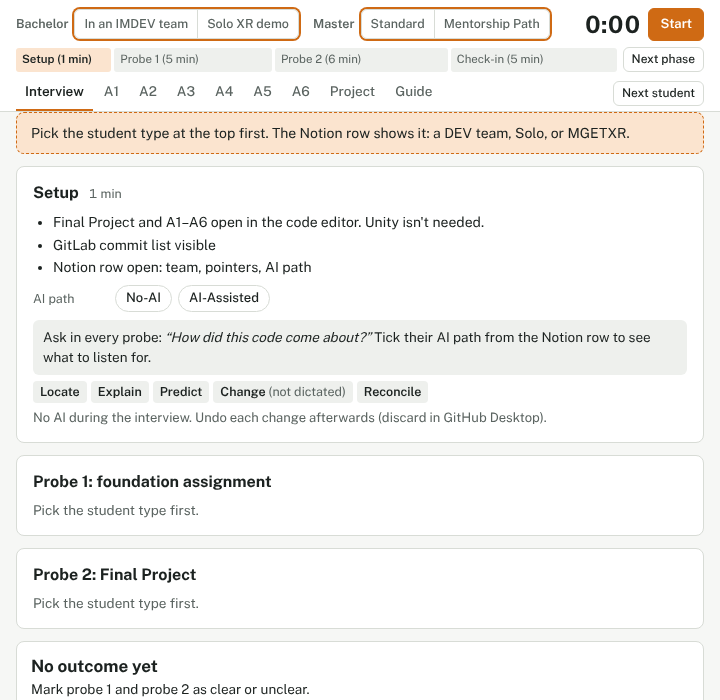
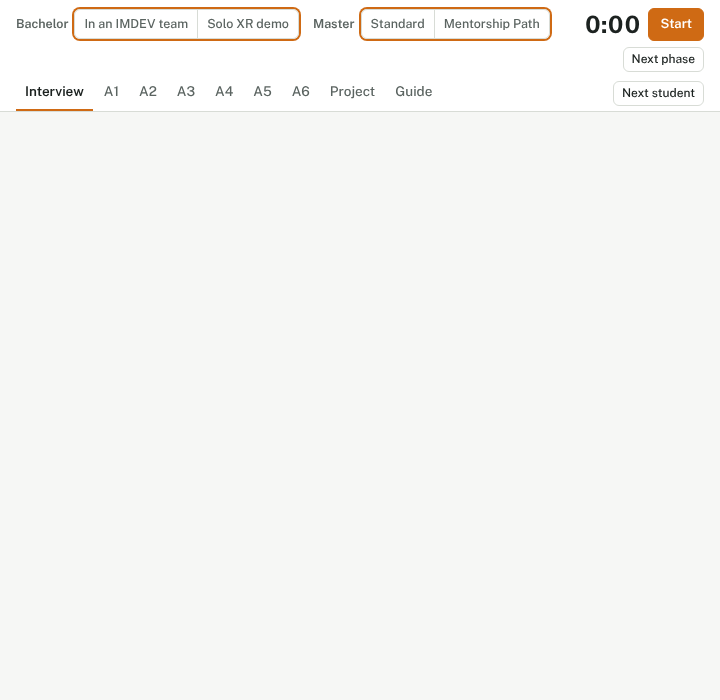
Call them checks, not probes; drop last-commit cards
Claude-Session: https://claude.ai/code/session_012pZ8E2KigwqxqxQJHujcYw

diff --git a/index.html b/index.html
@@ -108,7 +108,7 @@ main.wrap{padding-top:24px;padding-bottom:48px}
 .chip.res-doubt[aria-pressed="true"]{background:var(--doubt-t);border-color:var(--doubt)}
 input[type=text]{font:inherit;font-size:14px;color:var(--fg);background:var(--surface);border:1px solid var(--line);border-radius:6px;padding:5px 8px;width:100%;max-width:280px}
 
-/* the probe card: the one bold element */
+/* the check card: the one bold element */
 .card{position:relative;background:var(--surface);border:1px solid var(--line);border-left:5px solid var(--accent);border-radius:4px 8px 8px 4px;padding:12px 14px 12px 14px;margin:8px 0}
 .card .meta{display:flex;gap:6px;flex-wrap:wrap;align-items:center;margin-bottom:6px;font-size:12px}
 .tag{border-radius:3px;padding:1px 6px;font-weight:600;background:var(--sunk);color:var(--muted)}
@@ -211,8 +211,8 @@ const SOURCES = {own:"Own code", given:"Given in brief/template"};
 function needsThird(){ return verdict().k==="third" || !!S.probes[2].deck || !!S.probes[2].result; }
 function phasesFor(mode){
   const third = needsThird(), st = MODES[mode].status;
-  const list = [{id:"setup",n:"Setup",len:1},{id:"p1",n:"Probe 1",len:5},{id:"p2",n:"Probe 2",len:6}];
-  if(third) list.push({id:"p3",n:"Probe 3",len:st?3:4});
+  const list = [{id:"setup",n:"Setup",len:1},{id:"p1",n:"Check 1",len:5},{id:"p2",n:"Check 2",len:6}];
+  if(third) list.push({id:"p3",n:"Check 3",len:st?3:4});
   if(st) list.push({id:"checkin",n:"Check-in",len:third?2:5});
   let e = 0; list.forEach(p => { e += p.len; p.e = e; });
   return list;
@@ -225,7 +225,7 @@ function reset(keepMode){
   const mode = keepMode && S ? S.mode : (store.get("crg-mode","bt"));
   S = { mode, tab:"flow", aiPath:null, sugg:null,
         timer:{running:false, start:0, acc:0}, phase:"setup", phaseAt:0,
-        probes:[blankProbe(), blankProbe(), blankProbe()],
+        checks:[blankProbe(), blankProbe(), blankProbe()],
         advice:null, armedNext:false, modeChosen:false };
 }
 reset(false);
@@ -265,15 +265,15 @@ function verdict(){
   if(S.probes.some(p => p.ai === "no"))
     return {k:"doubt", h:"Doubt", t:"Their account doesn't fit the declared AI path. Write down what they said under Evidence in Notion. Maro follows up."};
   if(!a.result || !b.result)
-    return {k:"pending", h:"No outcome yet", t:"Mark probe 1 and probe 2 as clear or unclear."};
+    return {k:"pending", h:"No outcome yet", t:"Mark check 1 and check 2 as clear or unclear."};
   const weak = p => p.result==="unclear" || p.ai==="unsure";
   const unclear = [a,b].filter(weak).length;
-  if(unclear === 0) return {k:"pass", h:"Pass", t:"Two clear probes."};
-  if(unclear === 2) return {k:"doubt", h:"Doubt", t:"Both probes were unclear or uncertain. Write down where they got stuck under Evidence in Notion. Maro follows up."};
-  if(!c.result) return {k:"third", h:"Do a third probe", t:"One probe was unclear, or you weren't sure how the code came about. Pick a different file, ideally from another assignment."};
+  if(unclear === 0) return {k:"pass", h:"Pass", t:"Two clear checks."};
+  if(unclear === 2) return {k:"doubt", h:"Doubt", t:"Both checks were unclear or uncertain. Write down where they got stuck under Evidence in Notion. Maro follows up."};
+  if(!c.result) return {k:"third", h:"Do a third check", t:"One check was unclear, or you weren't sure how the code came about. Pick a different file, ideally from another assignment."};
   return !weak(c)
-    ? {k:"pass", h:"Pass", t:"The third probe was clear."}
-    : {k:"doubt", h:"Doubt", t:"Still unclear after the third probe. Write down where they got stuck under Evidence in Notion. Maro follows up."};
+    ? {k:"pass", h:"Pass", t:"The third check was clear."}
+    : {k:"doubt", h:"Doubt", t:"Still unclear after the third check. Write down where they got stuck under Evidence in Notion. Maro follows up."};
 }
 
 /* ---------- helpers ---------- */
@@ -356,7 +356,7 @@ function probeHTML(i){
   const p = S.probes[i], mode = MODES[S.mode];
   let title, sub, deckRow = "";
   if(i===0){
-    title = mode.p1==="TUTORIAL" ? "Probe 1: tutorial package" : "Probe 1: foundation assignment";
+    title = mode.p1==="TUTORIAL" ? "Check 1: tutorial package" : "Check 1: foundation assignment";
     sub = mode.p1==="TUTORIAL" ? "Tutorial project." : "Stay in the code editor. Ask what Play would show instead of running it.";
     if(mode.p1==="A"){
       deckRow = `<div class="row"><span class="lab">Assignment</span>${ADECKS.map(k =>
@@ -365,12 +365,12 @@ function probeHTML(i){
         <p class="hint">Suggestions favour A4–A6. If the Notion row points somewhere else, go with that.</p>`;
     }
   } else if(i===1){
-    title = S.mode==="bt"||S.mode==="bs" ? "Probe 2: Final Project" : "Probe 2: XR Development Project";
-    sub = "Work in progress. Probe what exists so far, finished or not. Code editor only.";
+    title = S.mode==="bt"||S.mode==="bs" ? "Check 2: Final Project" : "Check 2: XR Development Project";
+    sub = "Work in progress. Check what exists so far, finished or not. Code editor only.";
     if(S.mode==="bt") sub += " Include a Trace into the teammate's code it connects to.";
   } else {
-    title = "Probe 3: a different file";
-    sub = "Pick a file you haven't probed yet, ideally from another assignment.";
+    title = "Check 3: a different file";
+    sub = "Pick a file you haven't checked yet, ideally from another assignment.";
     const decks = (S.mode==="mm" ? ["TUTORIAL"] : ADECKS).concat([mode.p2]);
     deckRow = `<div class="row"><span class="lab">Deck</span>${decks.map(k =>
       `<button class="chip" data-act="pick" data-p="2" data-v="${k}" aria-pressed="${p.deck===k}">${deckLabel(k)}</button>`).join("")}</div>`;
@@ -395,7 +395,7 @@ function probeHTML(i){
       <button class="chip res-clear" data-act="ai" data-p="${i}" data-v="yes" aria-pressed="${p.ai==="yes"}">Fits their AI path</button>
       <button class="chip res-doubt" data-act="ai" data-p="${i}" data-v="no" aria-pressed="${p.ai==="no"}">Doesn't fit</button>
       <button class="chip res-unclear" data-act="ai" data-p="${i}" data-v="unsure" aria-pressed="${p.ai==="unsure"}">Not sure</button></div>
-    <div class="row"><span class="lab">Script</span><input type="text" data-in="script" data-p="${i}" value="${esc(p.script)}" placeholder="e.g. Chaser.cs" aria-label="Script probed"></div>
+    <div class="row"><span class="lab">Script</span><input type="text" data-in="script" data-p="${i}" value="${esc(p.script)}" placeholder="e.g. Chaser.cs" aria-label="Script checked"></div>
     `;
   const phase = ["p1","p2","p3"][i];
   return `<section class="step" data-phase="${phase}"><div class="step-h"><h2>${title}</h2><span class="nowtag" hidden>now</span></div>
@@ -412,7 +412,7 @@ function copyText(i){
 }
 function notesText(){
   const lines = [];
-  S.probes.forEach((p,i) => { const t = copyText(i); if(t) lines.push("P"+(i+1)+": "+t); });
+  S.probes.forEach((p,i) => { const t = copyText(i); if(t) lines.push("Check "+(i+1)+": "+t); });
   if(!lines.length) return "";
   const v = verdict();
   lines.push("Suggested: "+(v.k==="pending" ? "not complete" : v.h));
@@ -424,10 +424,10 @@ function notesHTML(){
   return `<div class="copy"><button class="btn small" data-act="copynotes">Copy for “Check notes”</button></div><pre class="notes" id="notes">${esc(t)}</pre>`;
 }
 function aiHint(){
-  const no = `<b>No-AI:</b> you should hear how they wrote it: docs, tutorials, what went wrong. Code that looks generated with no story behind it gets a third probe.`;
+  const no = `<b>No-AI:</b> you should hear how they wrote it: docs, tutorials, what went wrong. Code that looks generated with no story behind it gets a third check.`;
   const yes = `<b>AI-Assisted:</b> you should hear which parts came from AI and what they changed or fixed. Predicting and changing still count the same.`;
-  if(!S.aiPath) return `<div class="ai"><p>Ask in every probe: <i>“How did this code come about?”</i></p><p>Tick their AI path from the Notion row to see what to listen for.</p></div>`;
-  return `<div class="ai"><p>Ask in every probe: <i>“How did this code come about?”</i></p><p>${S.aiPath==="noai" ? no : yes}</p><p>If it doesn't fit their declared path, note what they said and mark Doubt.</p></div>`;
+  if(!S.aiPath) return `<div class="ai"><p>Ask in every check: <i>“How did this code come about?”</i></p><p>Tick their AI path from the Notion row to see what to listen for.</p></div>`;
+  return `<div class="ai"><p>Ask in every check: <i>“How did this code come about?”</i></p><p>${S.aiPath==="noai" ? no : yes}</p><p>If it doesn't fit their declared path, note what they said and mark Doubt.</p></div>`;
 }
 function renderFlow(){
   const mode = MODES[S.mode], v = verdict(), p3 = v.k==="third" || S.probes[2].deck || S.probes[2].result;
@@ -444,7 +444,7 @@ function renderFlow(){
       <button class="chip" data-act="aipath" data-v="noai" aria-pressed="${S.aiPath==="noai"}">No-AI</button>
       <button class="chip" data-act="aipath" data-v="ai" aria-pressed="${S.aiPath==="ai"}">AI-Assisted</button></div>
     ${aiHint()}
-    <div class="cycle" aria-label="Probe cycle">${STEPS.map((s,i)=>`<span><b>${s}</b>${["","",""," (not dictated)",""][i]}</span>`).join("")}</div>
+    <div class="cycle" aria-label="Check cycle">${STEPS.map((s,i)=>`<span><b>${s}</b>${["","",""," (not dictated)",""][i]}</span>`).join("")}</div>
     <p class="hint">No AI during the interview. Undo each change afterwards (discard in GitHub Desktop).</p>
   </section>
   ${probeHTML(0)}
@@ -478,17 +478,17 @@ function renderDeck(k){
   const target = S.probes.findIndex((p,i) => !p.card && (i<2 || verdict().k==="third"));
   const btns = c => {
     const allowed = [0,1,2].filter(i => i===2 || (i===0 ? (MODES[S.mode].p1==="A" ? k.startsWith("A") : k===MODES[S.mode].p1) : k===MODES[S.mode].p2));
-    return `<div class="card-actions">${allowed.map(i=>`<button class="btn small" data-act="use" data-p="${i}" data-v="${c.id}">Use for probe ${i+1}</button>`).join("")}</div>`;
+    return `<div class="card-actions">${allowed.map(i=>`<button class="btn small" data-act="use" data-p="${i}" data-v="${c.id}">Use for check ${i+1}</button>`).join("")}</div>`;
   };
   return `<h2 class="deck-h">${esc(d.title)}</h2><p class="deck-sub">${esc(d.files)}. Pick any card, or let the interview tab deal one.</p>
-    <div class="legend"><span><span class="tag move">Move</span> type of change</span><span><span class="tag given">Given in brief/template</span> probe understanding</span></div>
+    <div class="legend"><span><span class="tag move">Move</span> type of change</span><span><span class="tag given">Given in brief/template</span> check understanding</span></div>
     ${cards.map(c => cardHTML(k, c, {actions:btns(c)})).join("")}`;
 }
 
 /* ---------- render: guide ---------- */
 function renderGuide(){
   return `<div class="guide">
-  <h2>The probe cycle, twice</h2>
+  <h2>The check cycle, twice</h2>
   <table><thead><tr><th>Step</th><th>You say</th><th>Watch for</th></tr></thead><tbody>
   <tr><td>Locate</td><td>Name a behaviour, not a file: “Show me where…”</td><td>Goes straight there, or searches file names</td></tr>
   <tr><td>Explain</td><td>“Walk me through this in your own words.” One minute.</td><td>Talks about the effect in the game, or reads code aloud</td></tr>
@@ -496,7 +496,7 @@ function renderGuide(){
   <tr><td>Change</td><td>They type it, you don't dictate. Then they say what Play would show. No need to run it.</td><td>Types it without syntax being dictated</td></tr>
   <tr><td>Reconcile</td><td>If it differs: “Why did that happen?”</td><td>Authors usually work it out within a minute</td></tr>
   </tbody></table>
-  <p>Everything happens in the code editor. Inspector and scene setup aren't part of the check. You pick the code, not them. Skip template code and go for the TODO parts and anything they added. A script that's much more polished than the rest is a good second probe.</p>
+  <p>Everything happens in the code editor. Inspector and scene setup aren't part of the check. You pick the code, not them. Skip template code and go for the TODO parts and anything they added. A script that's much more polished than the rest is a good second check.</p>
 
   <h2>Reading the signals</h2>
   <table><thead><tr><th>Clear</th><th>Unclear</th></tr></thead><tbody>
@@ -511,18 +511,18 @@ function renderGuide(){
 
   <h2>Decision rule</h2>
   <ul>
-  <li>Two clear probes: <b>Pass</b>.</li>
-  <li>One unclear: a third probe on a different file. Clear: Pass. Still unclear: <b>Doubt</b>.</li>
+  <li>Two clear checks: <b>Pass</b>.</li>
+  <li>One unclear: a third check on a different file. Clear: Pass. Still unclear: <b>Doubt</b>.</li>
   <li>Their account doesn't fit the declared AI path: <b>Doubt</b>.</li>
   <li>Doubt isn't a fail. It means: write down what you saw under Evidence, so Maro has something concrete to follow up on. TAs never mark Fail.</li>
-  <li>Don't argue it out or hint that something is wrong. Move on to the next probe.</li>
+  <li>Don't argue it out or hint that something is wrong. Move on to the next check.</li>
   </ul>
 
   <h2>When something goes wrong</h2>
   <ul>
-  <li><b>Repo not cloned:</b> open the code in GitLab's web view and probe there.</li>
+  <li><b>Repo not cloned:</b> open the code in GitLab's web view and check there.</li>
   <li><b>No laptop or an empty battery:</b> the same, on your laptop.</li>
-  <li><b>Little project code so far:</b> that's normal, it's a work-in-progress check. Probe the newest code they wrote, even if it doesn't work yet.</li>
+  <li><b>Little project code so far:</b> that's normal, it's a work-in-progress check. Check the newest code they wrote, even if it doesn't work yet.</li>
   <li><b>Repo not shared with the course group:</b> note it under Flag for Maro. They come back on Wed 16:25.</li>
   </ul>
 
@@ -539,9 +539,9 @@ function renderGuide(){
   <h2>In the room</h2>
   <ul>
   <li>Write notes during the slot; there is no separate note time.</li>
-  <li>Team members: one probe in the sub-system, including a Trace into the teammate's code. Disputed ownership: <code>git log --author</code>.</li>
-  <li>Masters on the Mentorship Path: probe 1 on the tutorial package.</li>
-  <li>A third probe takes time from the status part.</li>
+  <li>Team members: one check in the sub-system, including a Trace into the teammate's code. Disputed ownership: <code>git log --author</code>.</li>
+  <li>Masters on the Mentorship Path: check 1 on the tutorial package.</li>
+  <li>A third check takes time from the status part.</li>
   <li>Know them personally? Ask another TA to take over.</li>
   </ul>
   </div>`;
@@ -572,7 +572,7 @@ document.addEventListener("click", e => {
   if(a !== "next" && S.armedNext){ S.armedNext = false; }
   switch(a){
     case "mode": S.mode = v; S.modeChosen = true; store.set("crg-mode", v); S.advice = null;
-      // reset probe decks that no longer fit
+      // reset check decks that no longer fit
       S.probes.forEach(p => { if(p.card && !cardsFor(p.deck).some(c=>c.id===p.card)) Object.assign(p, blankProbe()); });
       break;
     case "tab": S.tab = v; window.scrollTo(0,0); break;

diff --git a/decks.js b/decks.js
@@ -1,8 +1,8 @@
-// Probe decks for the (M)GETXR Week 9 Code Review Interviews.
+// Check decks for the (M)GETXR Week 9 Code Review Interviews.
 // Edit freely: each card has an id (keep it unique), a move, a source, and three texts.
 //   move:   tweak | remove | move | extend | trace | why-not
 //   source: own   = code the student had to write themselves
-//           given = code that came with the brief or template (probe understanding, not authorship)
+//           given = code that came with the brief or template (check understanding, not authorship)
 // Only code-editor cards: nothing that needs Unity open (Inspector, Hierarchy, Play Mode).
 //   locate: the behaviour the TA names ("show me where...")
 //   change: what the student changes (assignments: typed in the editor, not run)
@@ -60,7 +60,7 @@ window.DECKS = {
       { id: "a2-2", move: "remove", source: "given",
         locate: "Where are destroyed coins removed from the list?",
         change: "Comment out the cleanup (`RemoveAll` or the reverse loop).",
-        expect: "Once Count reaches the cap, spawning stops for good: destroyed entries still count. The snippet is in the brief, so probe the reasoning." },
+        expect: "Once Count reaches the cap, spawning stops for good: destroyed entries still count. The snippet is in the brief, so check the reasoning." },
       { id: "a2-3", move: "tweak", source: "own",
         locate: "Show me the on/off toggle.",
         change: "Let the timer keep counting while the spawner is off.",
@@ -107,7 +107,7 @@ window.DECKS = {
       { id: "a3-3", move: "tweak", source: "given",
         locate: "Where is the jump velocity calculated?",
         change: "Multiply `jumpHeight` by 4.",
-        expect: "Four times higher, but take-off speed only doubles (square root). The formula is in the brief. Probe the reasoning." },
+        expect: "Four times higher, but take-off speed only doubles (square root). The formula is in the brief. Check the reasoning." },
       { id: "a3-4", move: "tweak", source: "given",
         locate: "What keeps the player grounded?",
         change: "Set the small downward snap (`-2f`) to `0`.",
@@ -284,10 +284,6 @@ window.DECKS = {
         locate: "Why is it structured this way (manager, events, singleton…)?",
         change: "Ask for one alternative and what it would cost.",
         expect: "A reason tied to the project, not a textbook line." },
-      { id: "p-8", move: "trace", source: "own",
-        locate: "Show me your last commit. What was it for?",
-        change: "Open the diff and explain one change.",
-        expect: "Remembers the problem it solved." },
       { id: "p-9", move: "trace", source: "own", only: "solo",
         locate: "Where does the XR input (grab, teleport, tracking) reach your own code?",
         change: "Trace it from the interactor to your handler.",
@@ -327,10 +323,6 @@ window.DECKS = {
         locate: "Why this measure, or this way of logging?",
         change: "Ask for one alternative.",
         expect: "A reason tied to the research question." },
-      { id: "m-7", move: "trace", source: "own",
-        locate: "Show me your last commit. What was it for?",
-        change: "Open the diff and explain one change.",
-        expect: "Remembers the problem it solved." },
       { id: "m-8", move: "why-not", source: "own",
         locate: "Show me the code that was hardest to get right.",
         change: "Ask: what broke, and how did you find it?",
